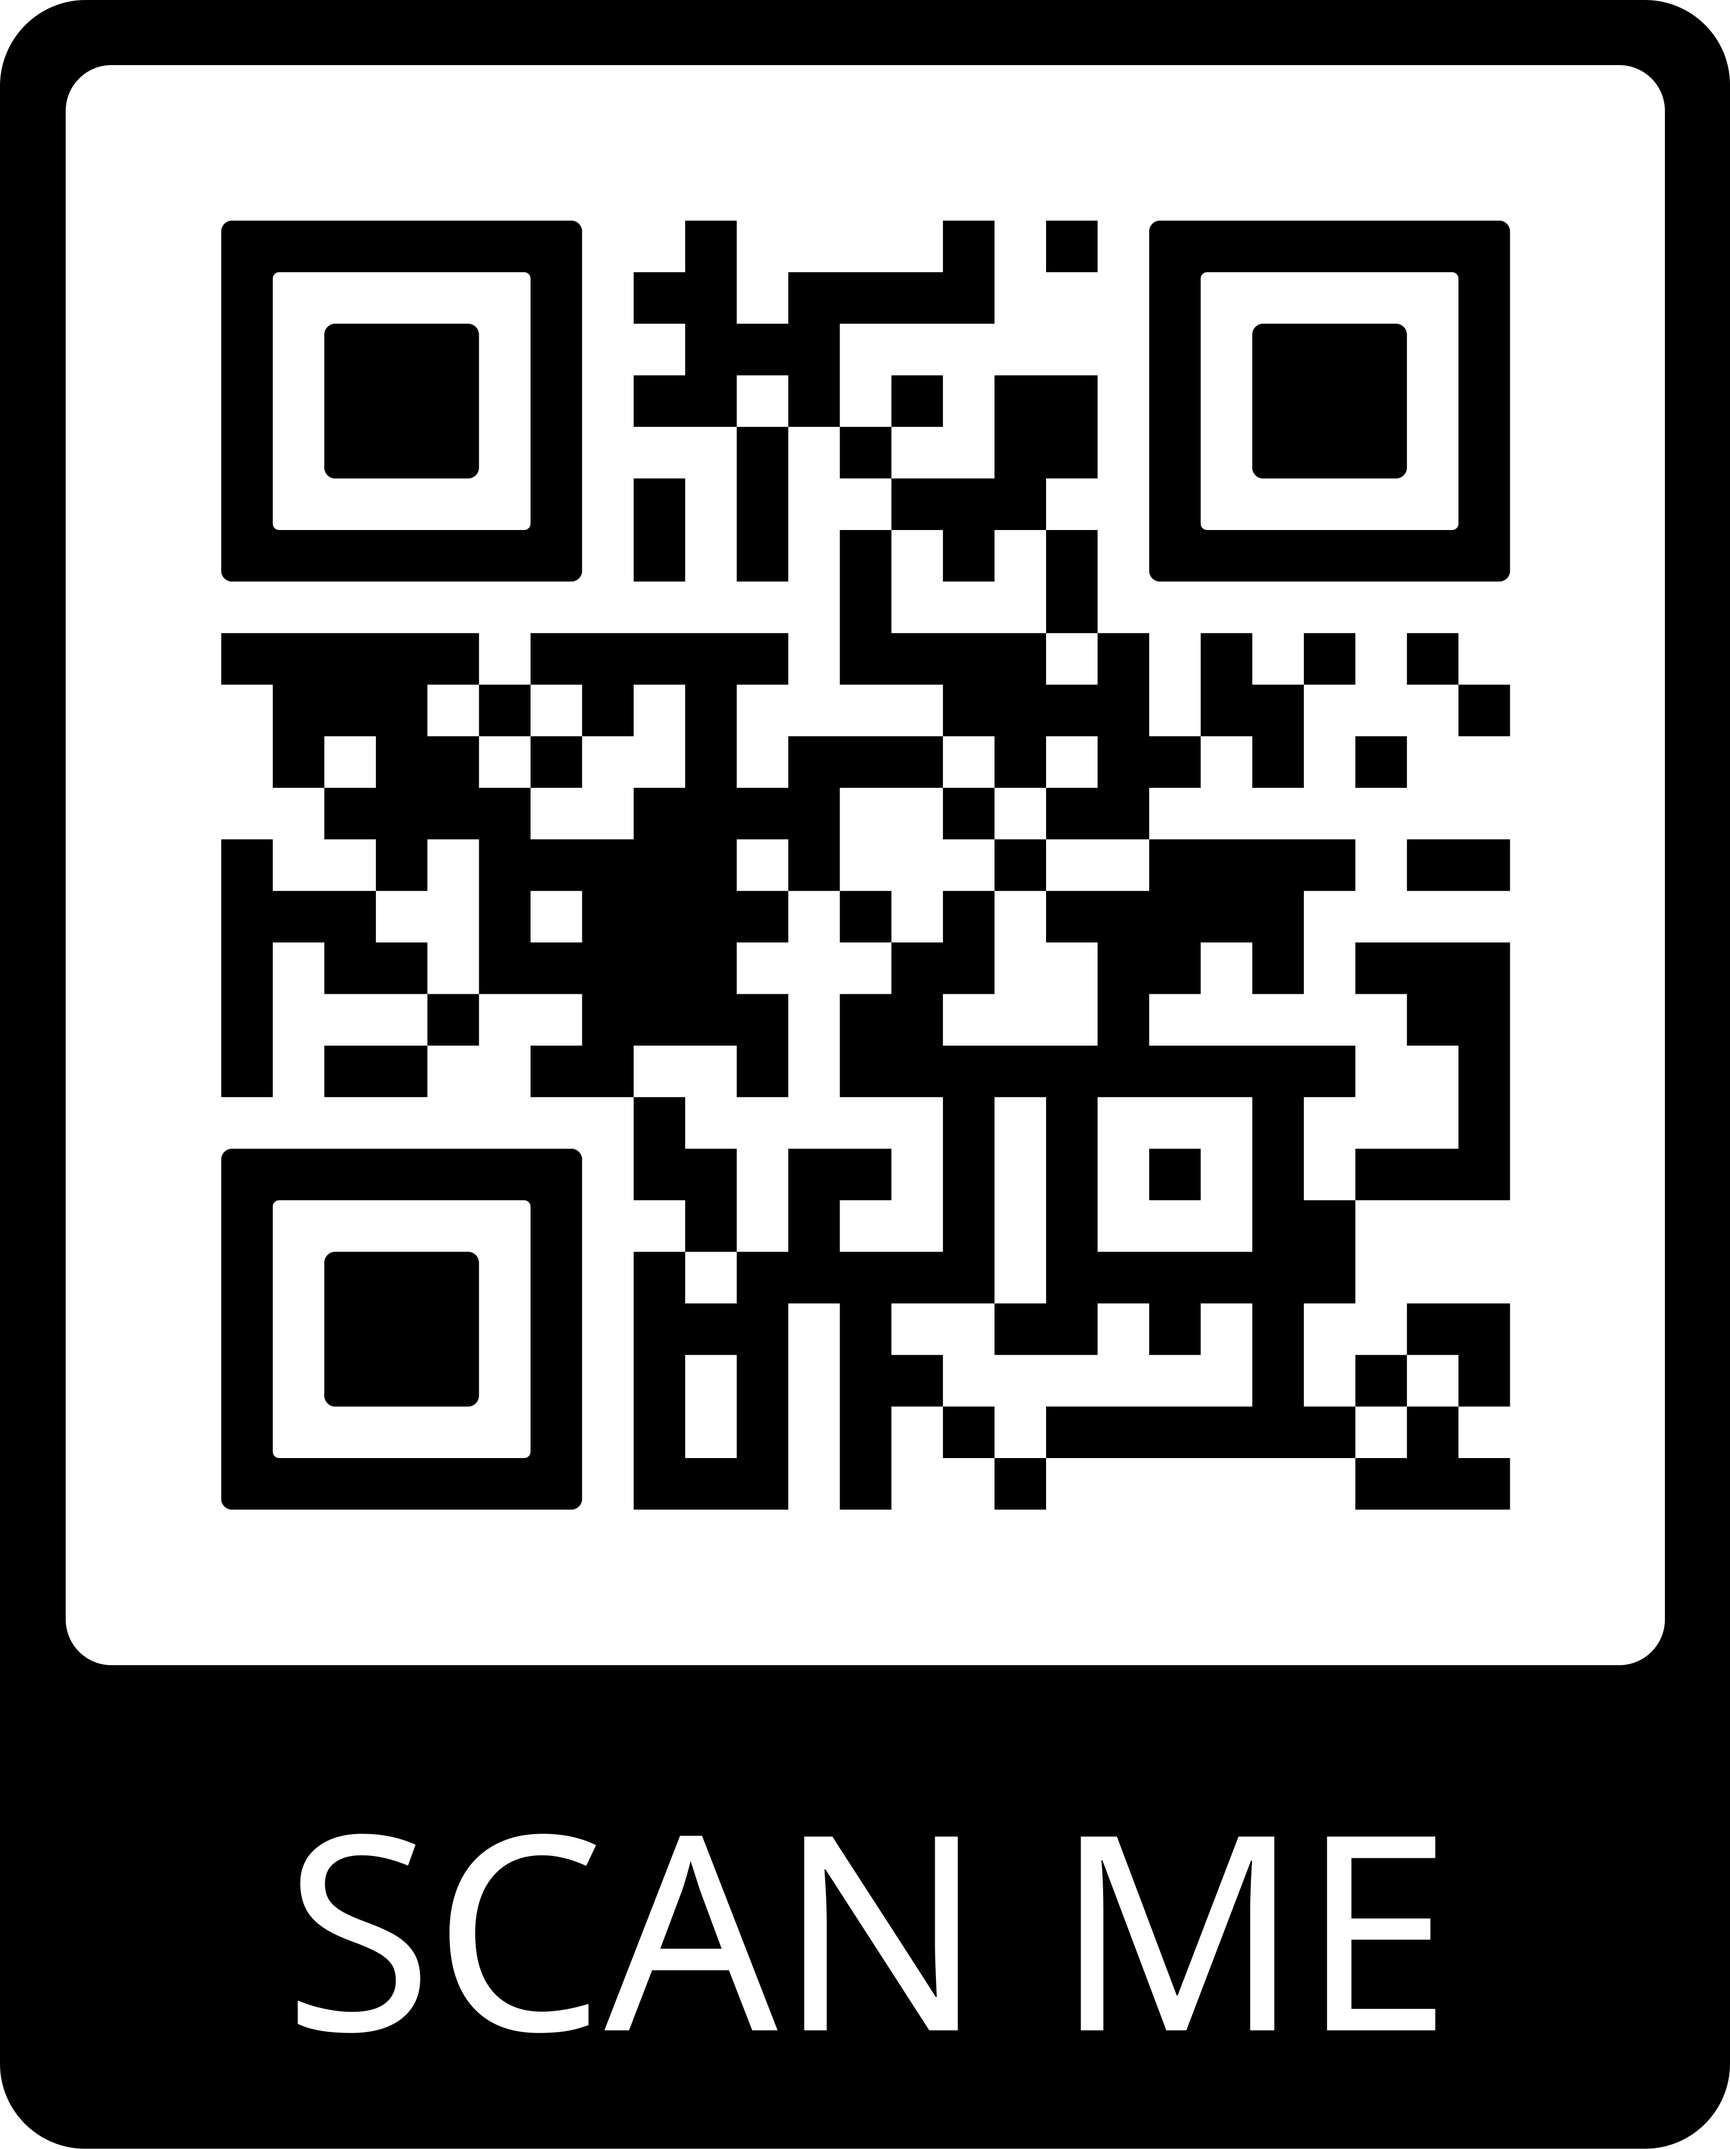
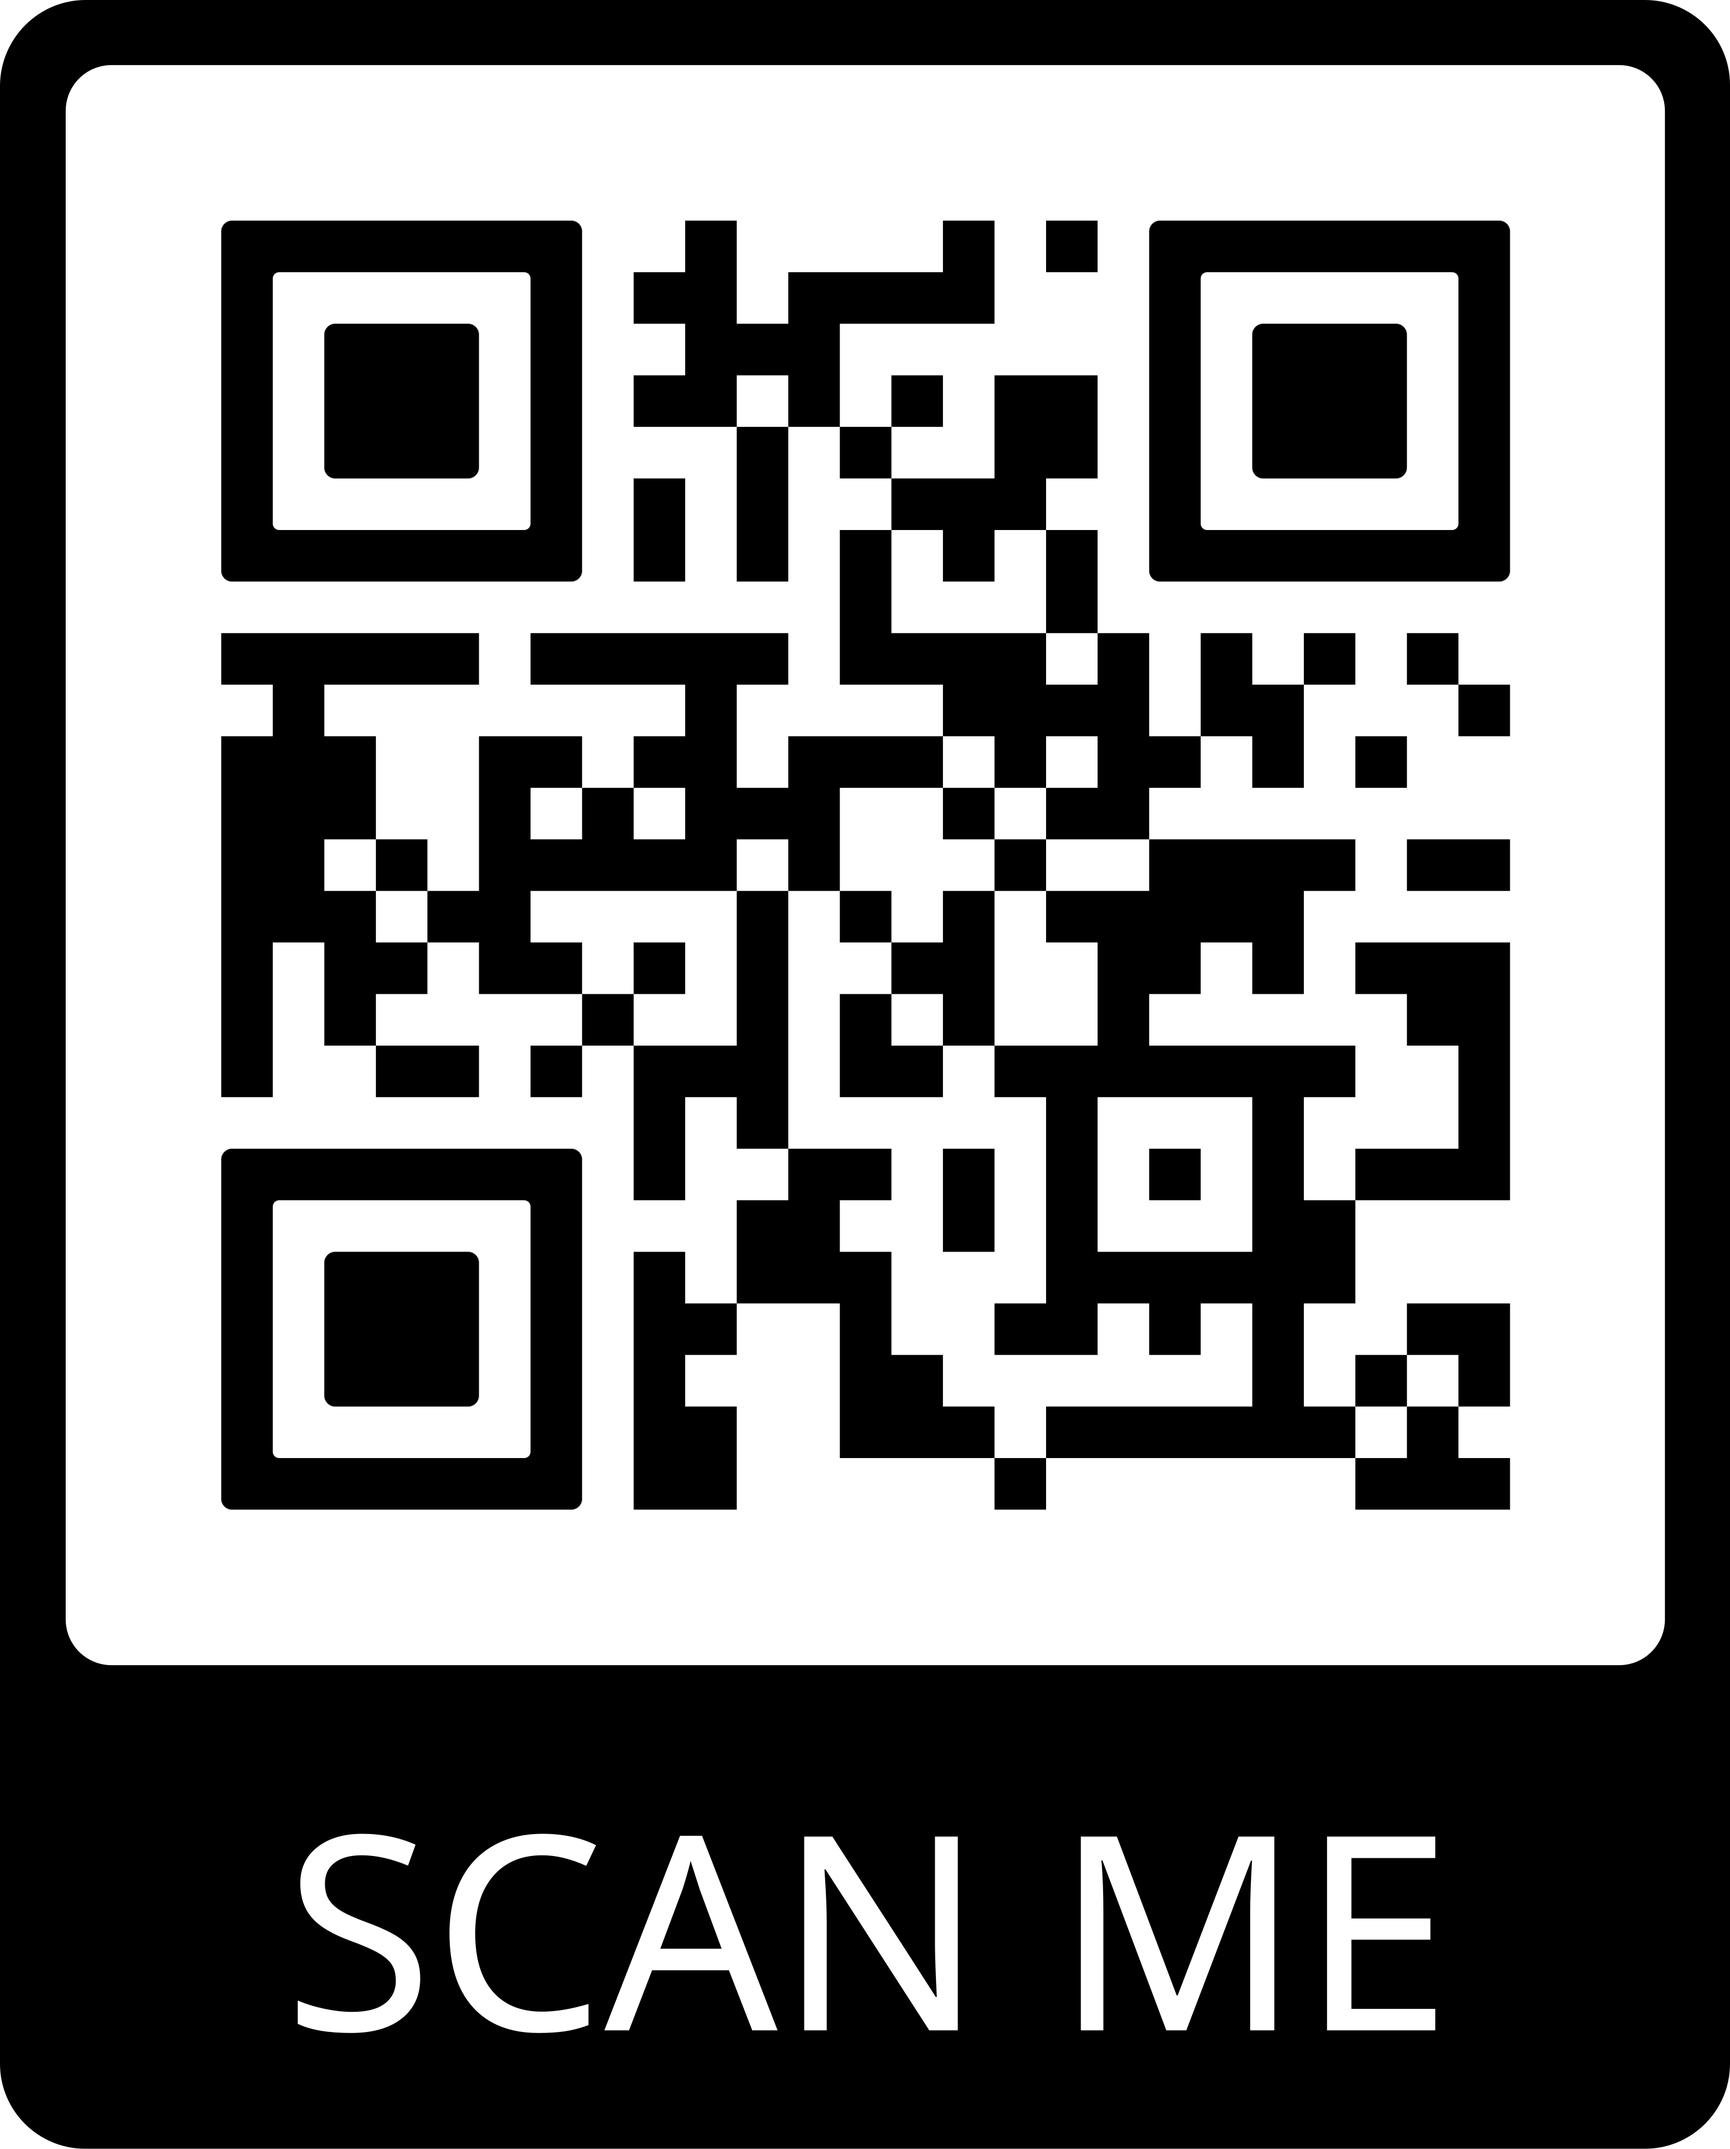
QR updated

diff --git a/components/documents.tsx b/components/documents.tsx
@@ -87,7 +87,7 @@ export function Documents() {
     // Final Reports
     {
       title: "Final Report - All Members",
-      date: "Apr 20, 2025",
+      date: "Apr 12, 2025",
       members: "All Members",
       color: "from-pink-400 to-rose-500",
       filePath: "/documents/final-report-group.pdf",
@@ -98,7 +98,7 @@ export function Documents() {
     },
     {
       title: "Final Report - Karunarathne D. H",
-      date: "Apr 20, 2025",
+      date: "Apr 12, 2025",
       members: "Karunarathne D. H",
       color: "from-teal-400 to-cyan-500",
       filePath: "/documents/final-report-karunarathne.pdf",
@@ -109,7 +109,7 @@ export function Documents() {
     },
     {
       title: "Final Report - Gunarathna T.M.T.N",
-      date: "Apr 20, 2025",
+      date: "Apr 12, 2025",
       members: "Gunarathna T.M.T.N",
       color: "from-violet-400 to-purple-500",
       filePath: "/documents/final-report-gunarathna.pdf",
@@ -120,7 +120,7 @@ export function Documents() {
     },
     {
       title: "Final Report - Gunawardena B. D",
-      date: "Apr 20, 2025",
+      date: "Apr 12, 2025",
       members: "Gunawardena B. D",
       color: "from-emerald-400 to-green-500",
       filePath: "/documents/final-report-gunawardena.pdf",
@@ -171,8 +171,8 @@ export function Documents() {
       members: "All Members",
       color: "from-purple-400 to-violet-500",
       filePath: "/presentations/final-presentation.pptx",
-      externalUrl: "https://drive.google.com/file/d/your-presentation-id-4/view",
-      fileSize: "To be Submitted",
+      externalUrl: "https://docs.google.com/presentation/d/1q4nhbPT1gTwttx7C3kzskN0epwkjBPkW/edit?usp=drive_link&ouid=103923215809507449603&rtpof=true&sd=true",
+      fileSize: "16.7 MB",
       downloadMethod: "external",
       category: "presentation",
     },

diff --git a/components/download-app.tsx b/components/download-app.tsx
@@ -34,7 +34,7 @@ export function DownloadApp() {
         <p className="text-sm text-gray-300">
           Don’t have a QR scanner?{" "}
           <a
-            href="https://qrco.de/bg1oV0"
+            href="https://qrco.de/bg1rP9"
             target="_blank"
             rel="noopener noreferrer"
             className="underline text-blue-400 hover:text-blue-300"
